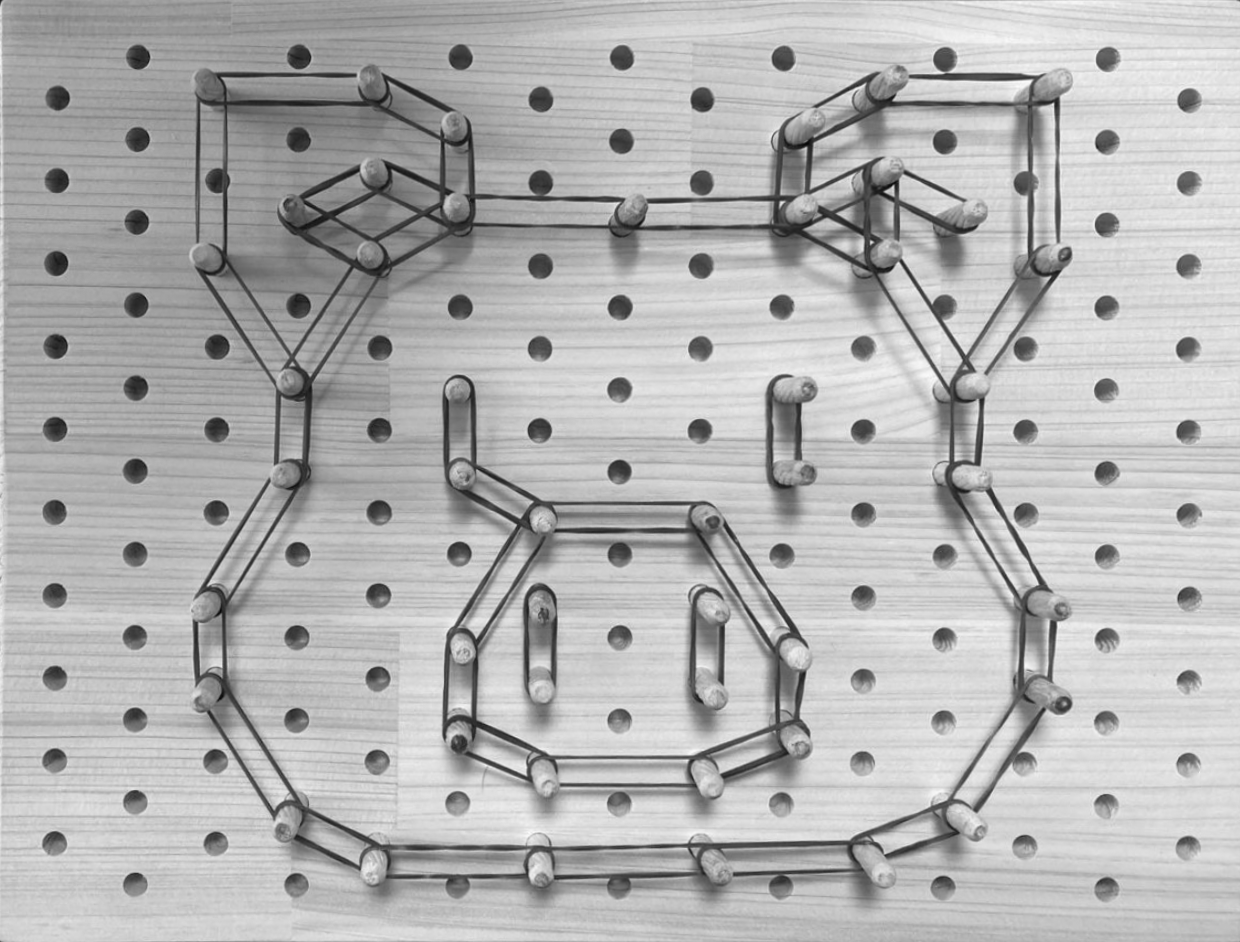
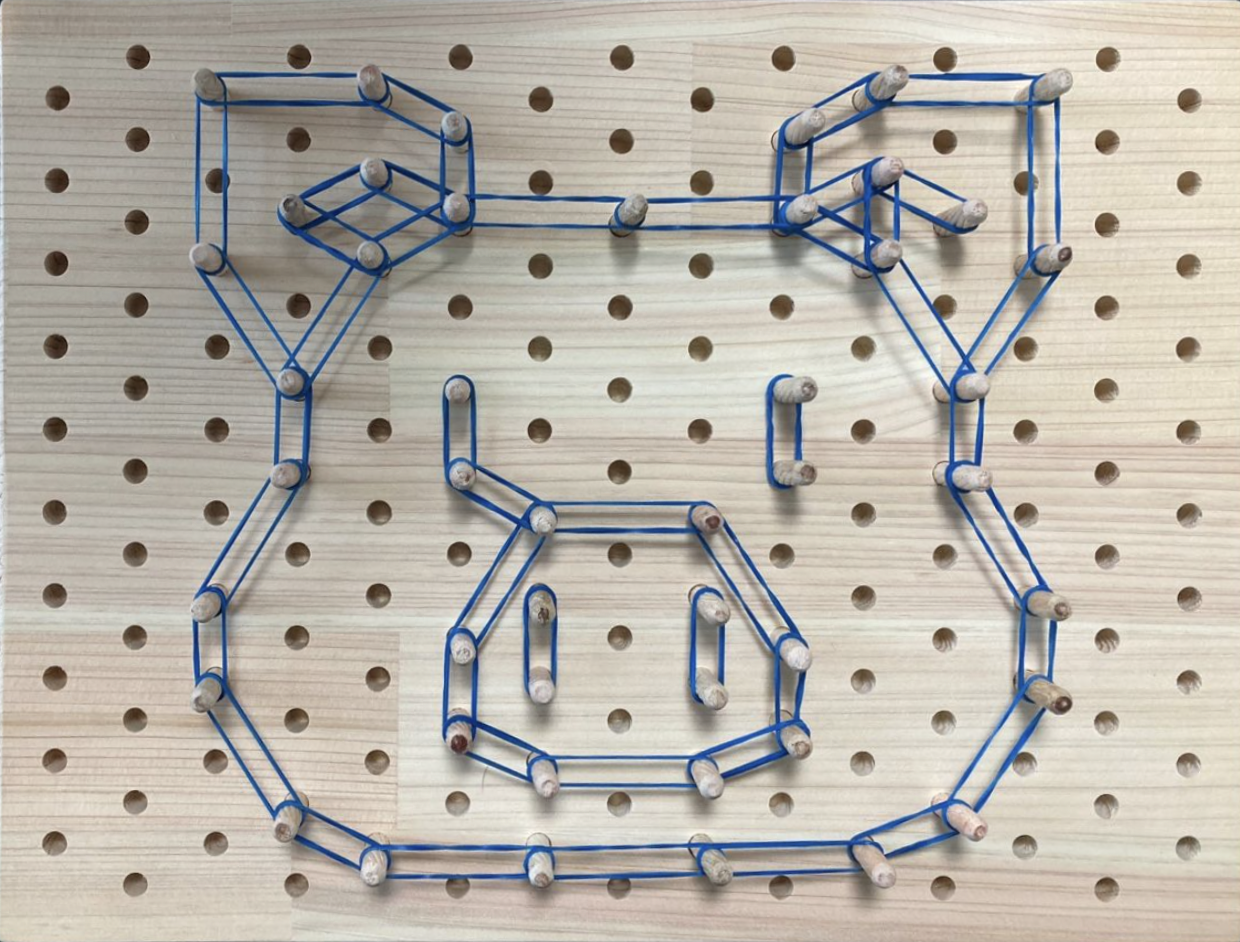
add blob detecting

diff --git a/main.py b/main.py
@@ -60,14 +60,14 @@ def four_point_transform(image, pts):
 
 
 
-img = cv2.imread('/Users/somang/Desktop/ex15.png', cv2.IMREAD_GRAYSCALE)
+img = cv2.imread('/Users/somang/Desktop/right.png')
 ratio = img.shape[0] / 600.0
 orig = img.copy()
 img = imutils.resize(img,height = 600)
 cv2.imshow("1",img)
-gray = cv2.cvtColor(img, cv2.THRESH_OTSU)
-gray = cv2.GaussianBlur(gray,(5,5),0)
-edged = cv2.Canny(gray, 75,200)
+#gray = cv2.cvtColor(img, cv2.THRESH_OTSU)
+#gray = cv2.GaussianBlur(gray,(5,5),0)
+edged = cv2.Canny(img, 75,200)
 
 #cv2.imshow("image",img)
 #cv2.imshow("edged",edged)
@@ -94,7 +94,7 @@ warped = four_point_transform(orig,screenCnt.reshape(4,2)*ratio)
 cv2.imshow("Scanned",imutils.resize(warped, height = 650))
 #img = imutils.resize(warped, height = 650)
 
-cv2.imwrite("/Users/somang/Desktop/flat_img.png",warped)
+cv2.imwrite("/Users/somang/Desktop/right_flat_img.png",warped)
 
 
 cv2.destroyAllWindows()

diff --git a/test.py b/test.py
@@ -1,0 +1,30 @@
+# inRange 함수를 이용해서 특정 색상 검출
+
+import cv2
+
+src = cv2.imread('resize/flat_img.png')
+# size 축소
+src = cv2.resize(src, (0, 0), fx=0.5, fy=0.5, interpolation=cv2.INTER_NEAREST)
+
+src_hsv = cv2.cvtColor(src, cv2.COLOR_BGR2HSV)
+cv2.imshow('srchsv', src_hsv)
+
+#  0 < B < 100 ,   128 < G < 255 , 0 < R < 100
+dst1 = cv2.inRange(src_hsv, (20, 100, 100), (200, 255, 255))
+img_result = cv2.bitwise_and(src_hsv, src_hsv, mask=dst1)
+
+cv2.imshow('src', src)
+cv2.moveWindow('src', 400, 100)
+
+cv2.imshow('dst1', dst1)
+cv2.moveWindow('dst1', 400, 450)
+
+cv2.imshow('img_result', img_result)
+cv2.moveWindow('img_result', 800, 450)
+
+#cv2.imwrite("/Users/somang/Desktop/compare1.png",dst1)
+
+
+cv2.waitKey()
+cv2.destroyAllWindows()
+
